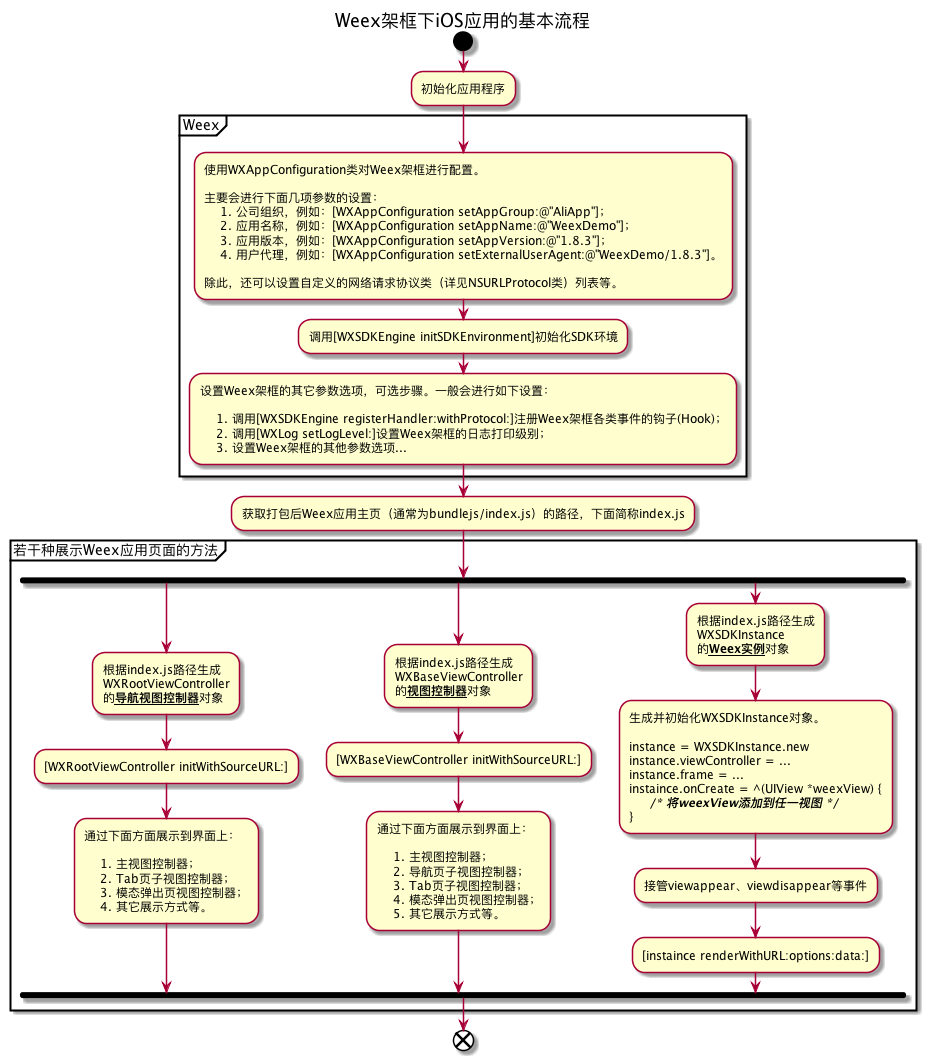
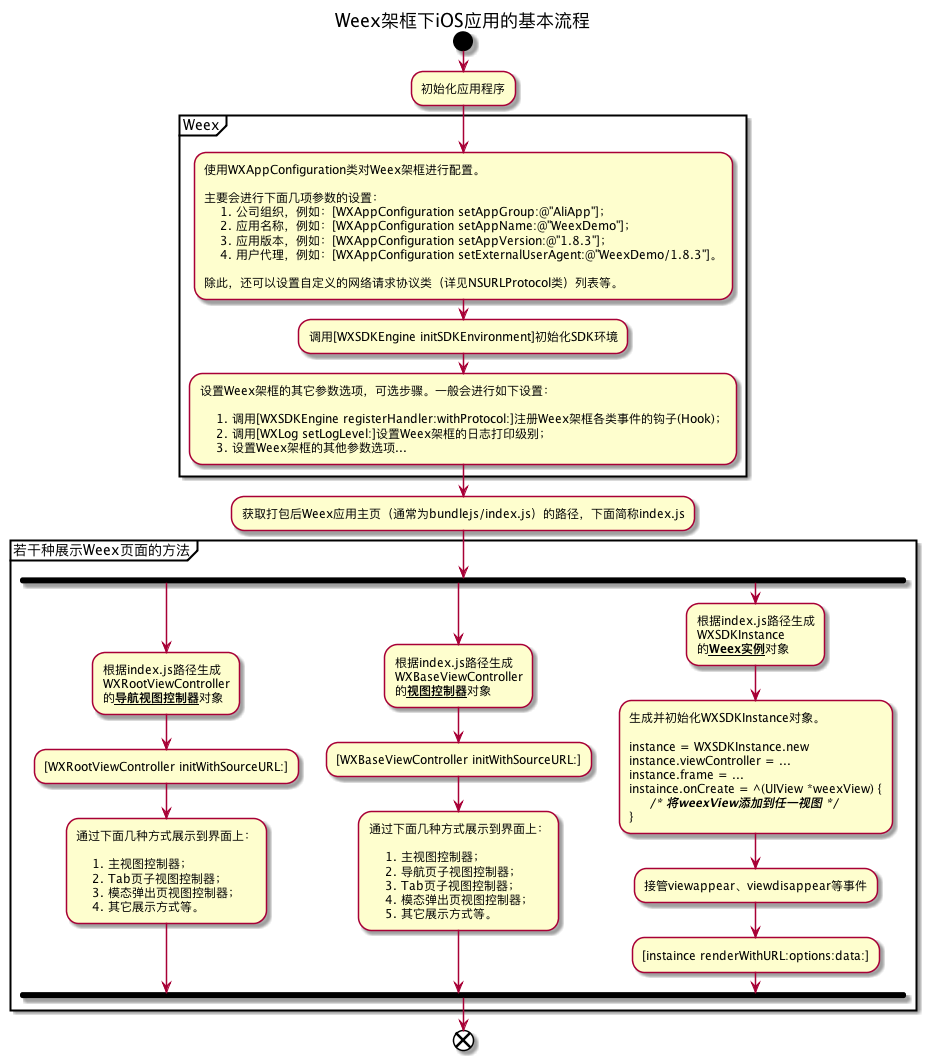
[文档] 修正文档中的文法错误等。

Changed region(s): [[0.3629, 0.7472, 0.635, 0.9028], [0.0605, 0.7783, 0.3024, 0.8717], [0.121, 0.4981, 0.2419, 0.5292]]

diff --git a/README.md b/README.md
@@ -266,7 +266,7 @@ Weex官网上有更详细的说明，可参考如下文档：
 
 主要是没有DOM、没有BOM等，不能像一般Web开发一样使用各种方便的前端第三方库，如jQuery等。
 
-详情差异与限制条件请查看Weex官方文档：
+详细差异与限制条件请查看Weex官方文档：
 
 1. 《[Weex 和 Web 的平台差异](https://weex.apache.org/zh/guide/platform-difference.html)》
 2. 《[在 Weex 中使用 Vue.js](https://weex.apache.org/zh/guide/use-vue-in-weex.html)》
